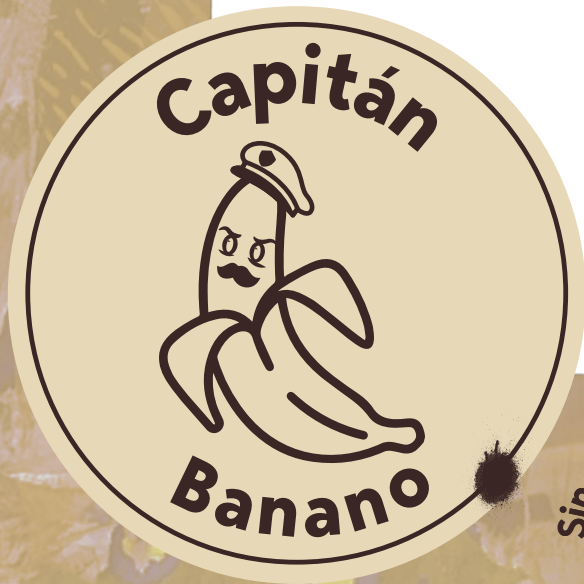
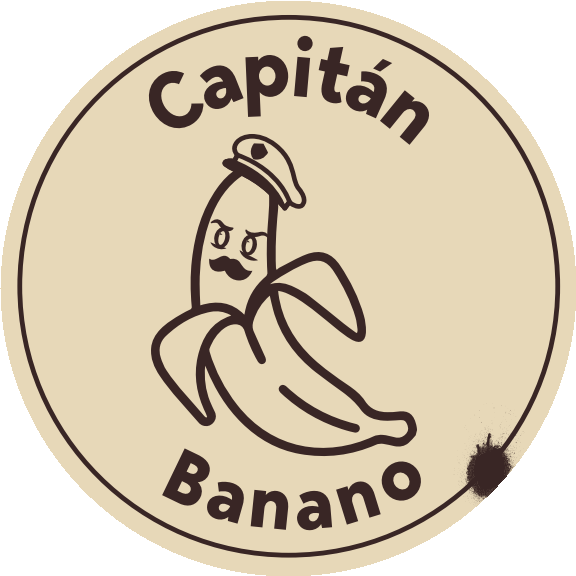
Ajustes de la revision de los duenos
- Sellos de producto recortados al circulo exacto con fondo transparente
- Logos ACAB (header e inline) mas grandes; eyebrow centrado; sin punto tras Bastards
- Cinta amarilla mas lenta (55s) y texto visible desde el inicio
- Icono de Instagram en naranja de marca y mas grande
- Header compacto en pantallas angostas para que Pedir no se corte
- Espacio irrompible en 35 g / 50 g para evitar linea huerfana

diff --git a/index.html b/index.html
@@ -39,7 +39,7 @@
   a{ color:inherit; }
   :focus-visible{ outline:3px solid var(--acento); outline-offset:3px; }
   .wrap{ max-width:960px; margin:0 auto; padding:0 1.25rem; }
-  .acab-inline{ height:1.6em; width:auto; vertical-align:-.4em; }
+  .acab-inline{ height:2.1em; width:auto; vertical-align:-.65em; }
 
   /* ---------- header ---------- */
   header{
@@ -48,7 +48,12 @@
     border-bottom:4px solid var(--tape);
   }
   header .wrap{ display:flex; align-items:center; justify-content:space-between; padding:.75rem 1.25rem; }
-  .logo img{ display:block; height:76px; width:auto; padding:.4rem 0; }
+  .logo img{ display:block; height:88px; width:auto; padding:.4rem 0; }
+  @media (max-width:560px){
+    .logo img{ height:56px; }
+    nav{ gap:.75rem; }
+    nav a{ font-size:.85rem; }
+  }
   nav{ display:flex; gap:1.25rem; align-items:center; }
   nav a{ text-decoration:none; font-weight:600; font-size:.95rem; }
   nav a:hover{ color:var(--tape); }
@@ -58,7 +63,7 @@
   .hero .eyebrow{
     display:inline-block; background:var(--tinta); color:var(--tape);
     font-weight:600; font-size:.85rem; letter-spacing:.15em; text-transform:uppercase;
-    padding:.25rem .75rem; margin-bottom:1.5rem; transform:rotate(-1.5deg);
+    text-align:center; padding:.25rem .75rem; margin-bottom:1.5rem; transform:rotate(-1.5deg);
   }
   .hero h1{ font-size:clamp(2.4rem, 7vw, 4.5rem); max-width:14ch; }
   .hero h1 span{ color:var(--acento); }
@@ -78,7 +83,7 @@
     overflow:hidden; white-space:nowrap; padding:.5rem 0 .5rem 1.5rem;
     font-family:"Permanent Marker",sans-serif; text-transform:uppercase; font-size:1rem; letter-spacing:.08em;
   }
-  .tape span{ display:inline-block; animation:cinta 22s linear infinite; }
+  .tape span{ display:inline-block; animation:cinta 55s linear infinite; }
   @keyframes cinta{ from{transform:translateX(0)} to{transform:translateX(-50%)} }
   @media (prefers-reduced-motion: reduce){
     .tape span{ animation:none; }
@@ -145,7 +150,7 @@
   /* instagram footer */
   .ig{ display:inline-flex; align-items:center; gap:.45rem; font-weight:700; font-size:1.15rem; text-decoration:none; }
   .ig:hover{ color:var(--acento); }
-  .ig svg{ width:1.3em; height:1.3em; fill:currentColor; }
+  .ig svg{ width:1.5em; height:1.5em; fill:var(--acento); }
 
   /* ---------- footer ---------- */
   footer{ padding:3rem 0; }
@@ -170,7 +175,7 @@
   <section class="hero">
     <div class="wrap">
       <p class="eyebrow">Snacks saludables · Hechos con amor y revolución</p>
-      <h1>All Chucherías Are <span>Bastards</span>.</h1>
+      <h1>All Chucherías Are <span>Bastards</span></h1>
       <p><img class="acab-inline" src="assets/img/logo.png" alt="ACAB"> es snack
       saludable con actitud: fruta real, sin azúcar añadida, sin conservantes, cero cuento.</p>
       <a class="btn" href="#productos">Ver los productos ↓</a>
@@ -191,7 +196,7 @@
           <div class="info">
             <h3>Capitán Banano</h3>
             <p>Banano con chocolate 70%, endulzado con eritritol y stevia — sí, leíste
-            bien: NO es azúcar. Sin azúcar añadida, sin conservantes. Peso neto 50 g.</p>
+            bien: NO es azúcar. Sin azúcar añadida, sin conservantes. Peso neto 50&nbsp;g.</p>
             <details class="nutri">
               <summary>Información nutricional</summary>
               <div>
@@ -229,7 +234,7 @@
           <div class="info">
             <h3>Capitana Piña</h3>
             <p>Piña deshidratada con canela. Dos ingredientes, nada más. Sin azúcar
-            añadida, sin conservantes. Peso neto 35 g.</p>
+            añadida, sin conservantes. Peso neto 35&nbsp;g.</p>
             <details class="nutri">
               <summary>Información nutricional</summary>
               <div>